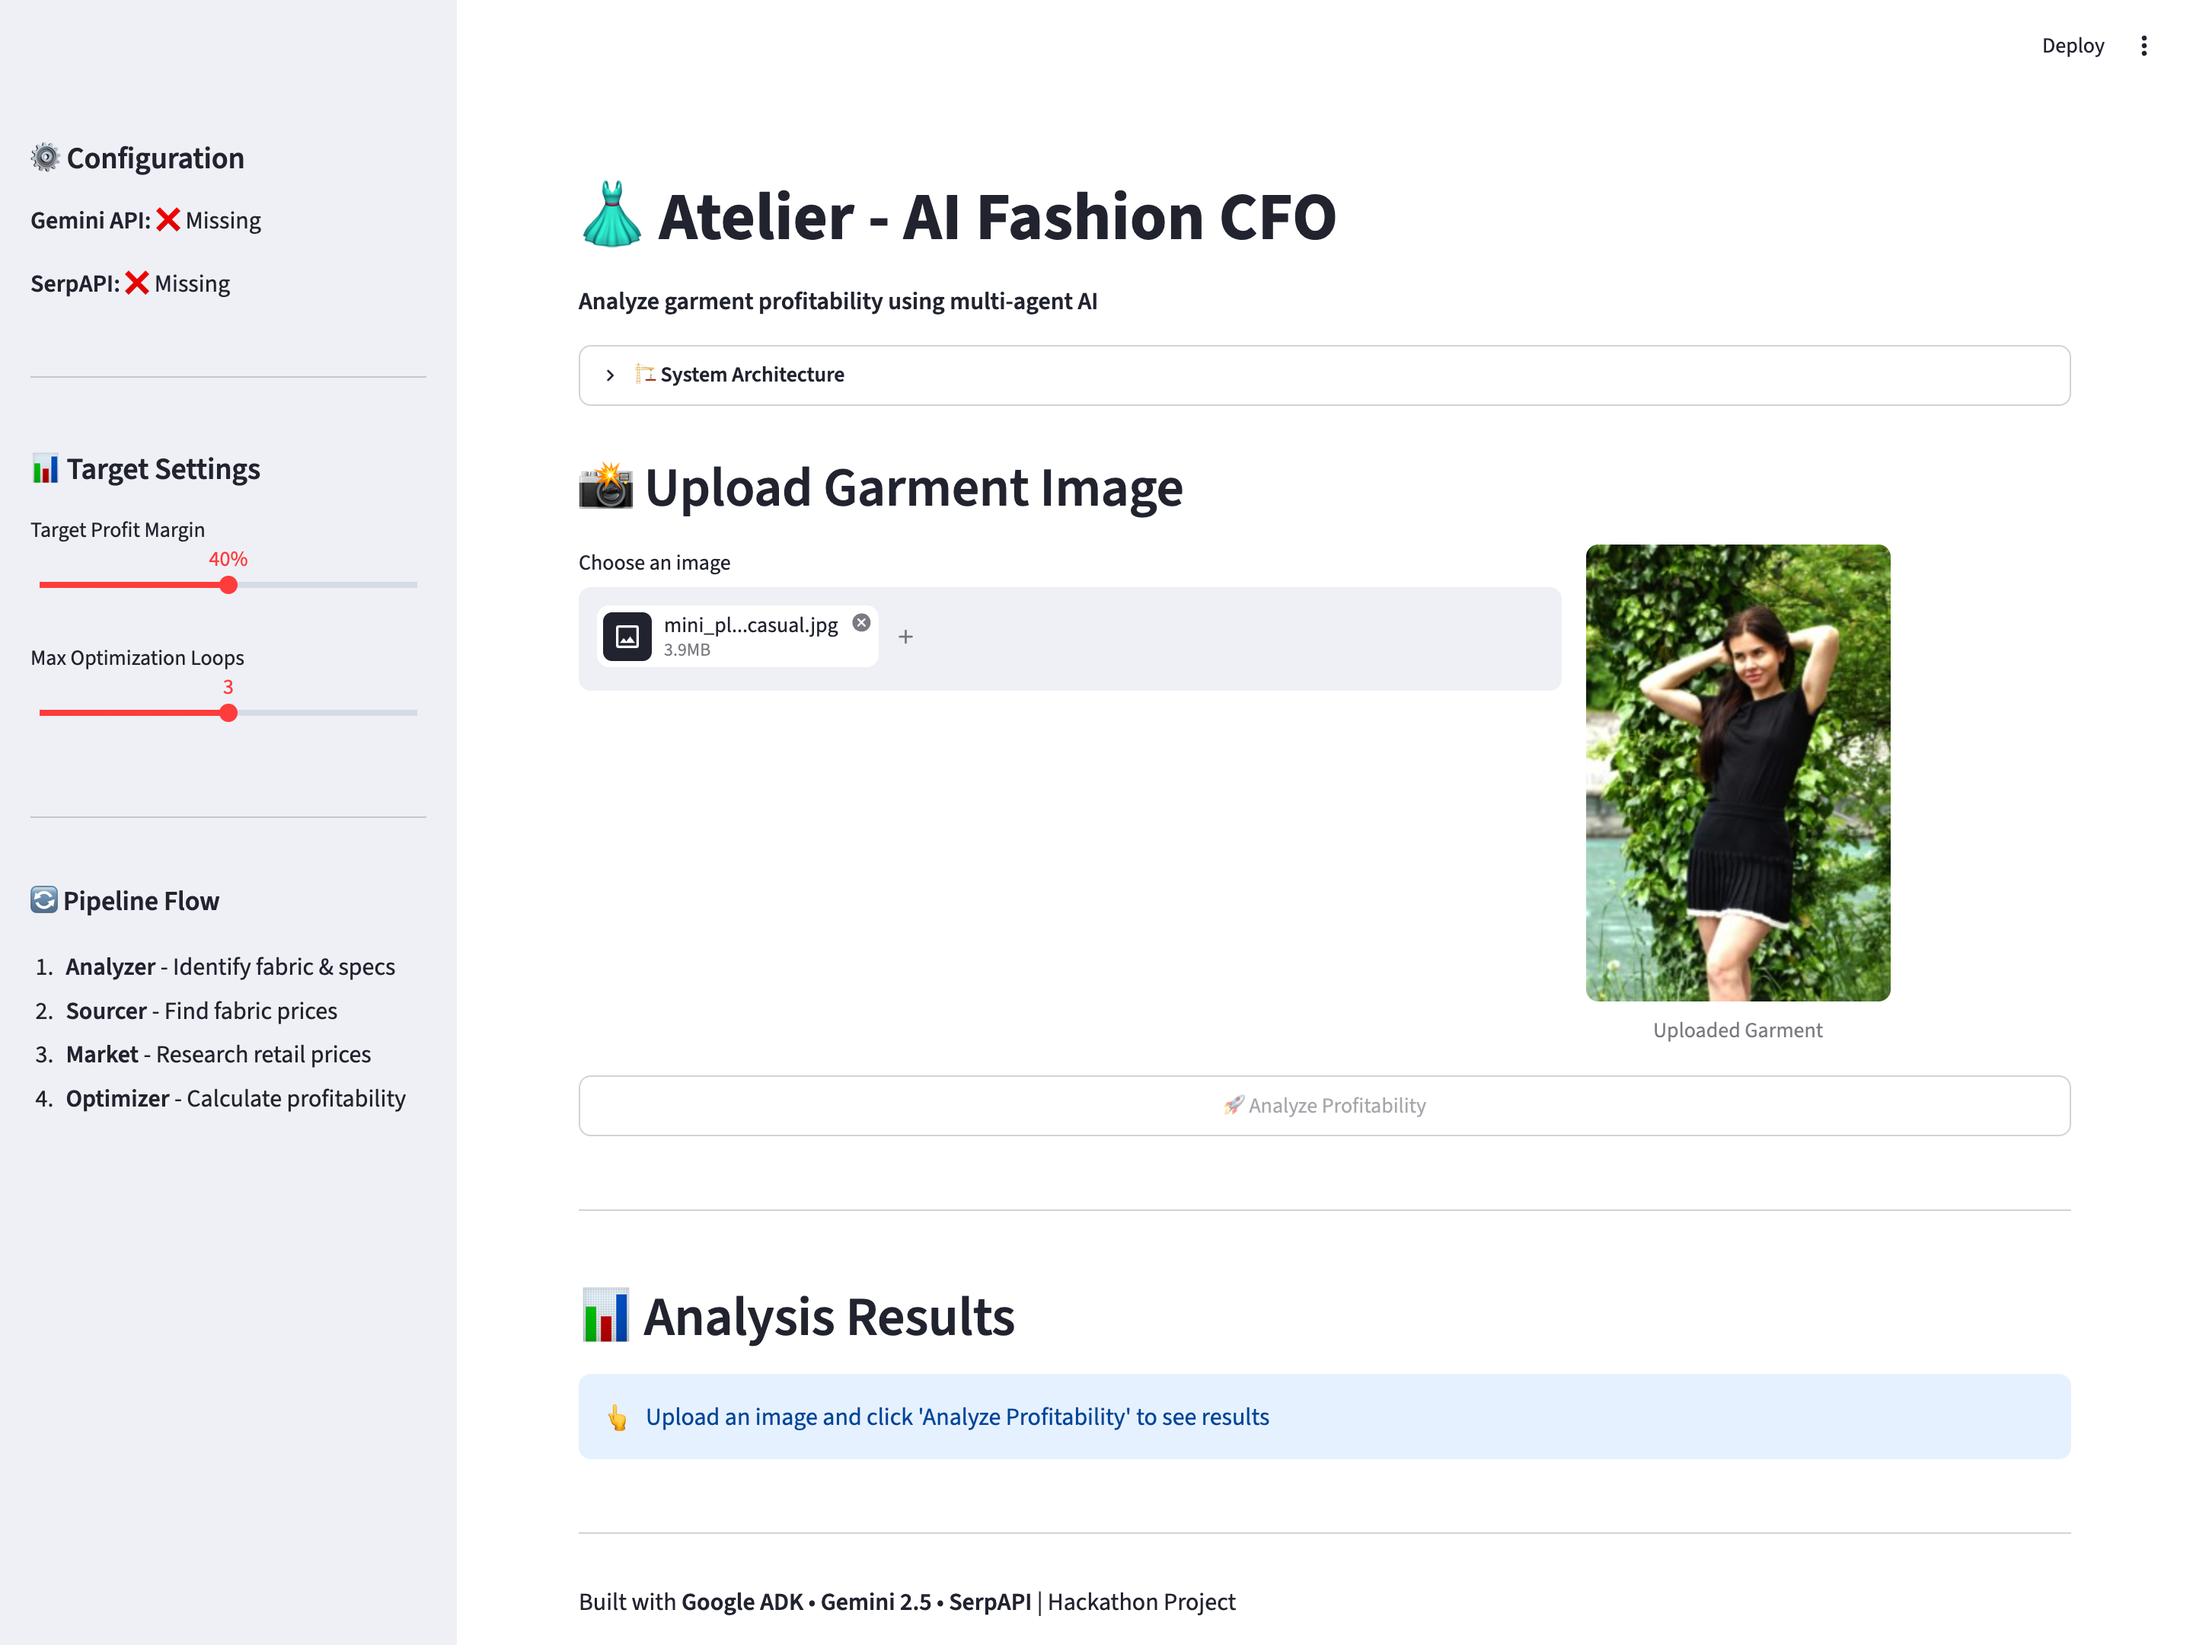
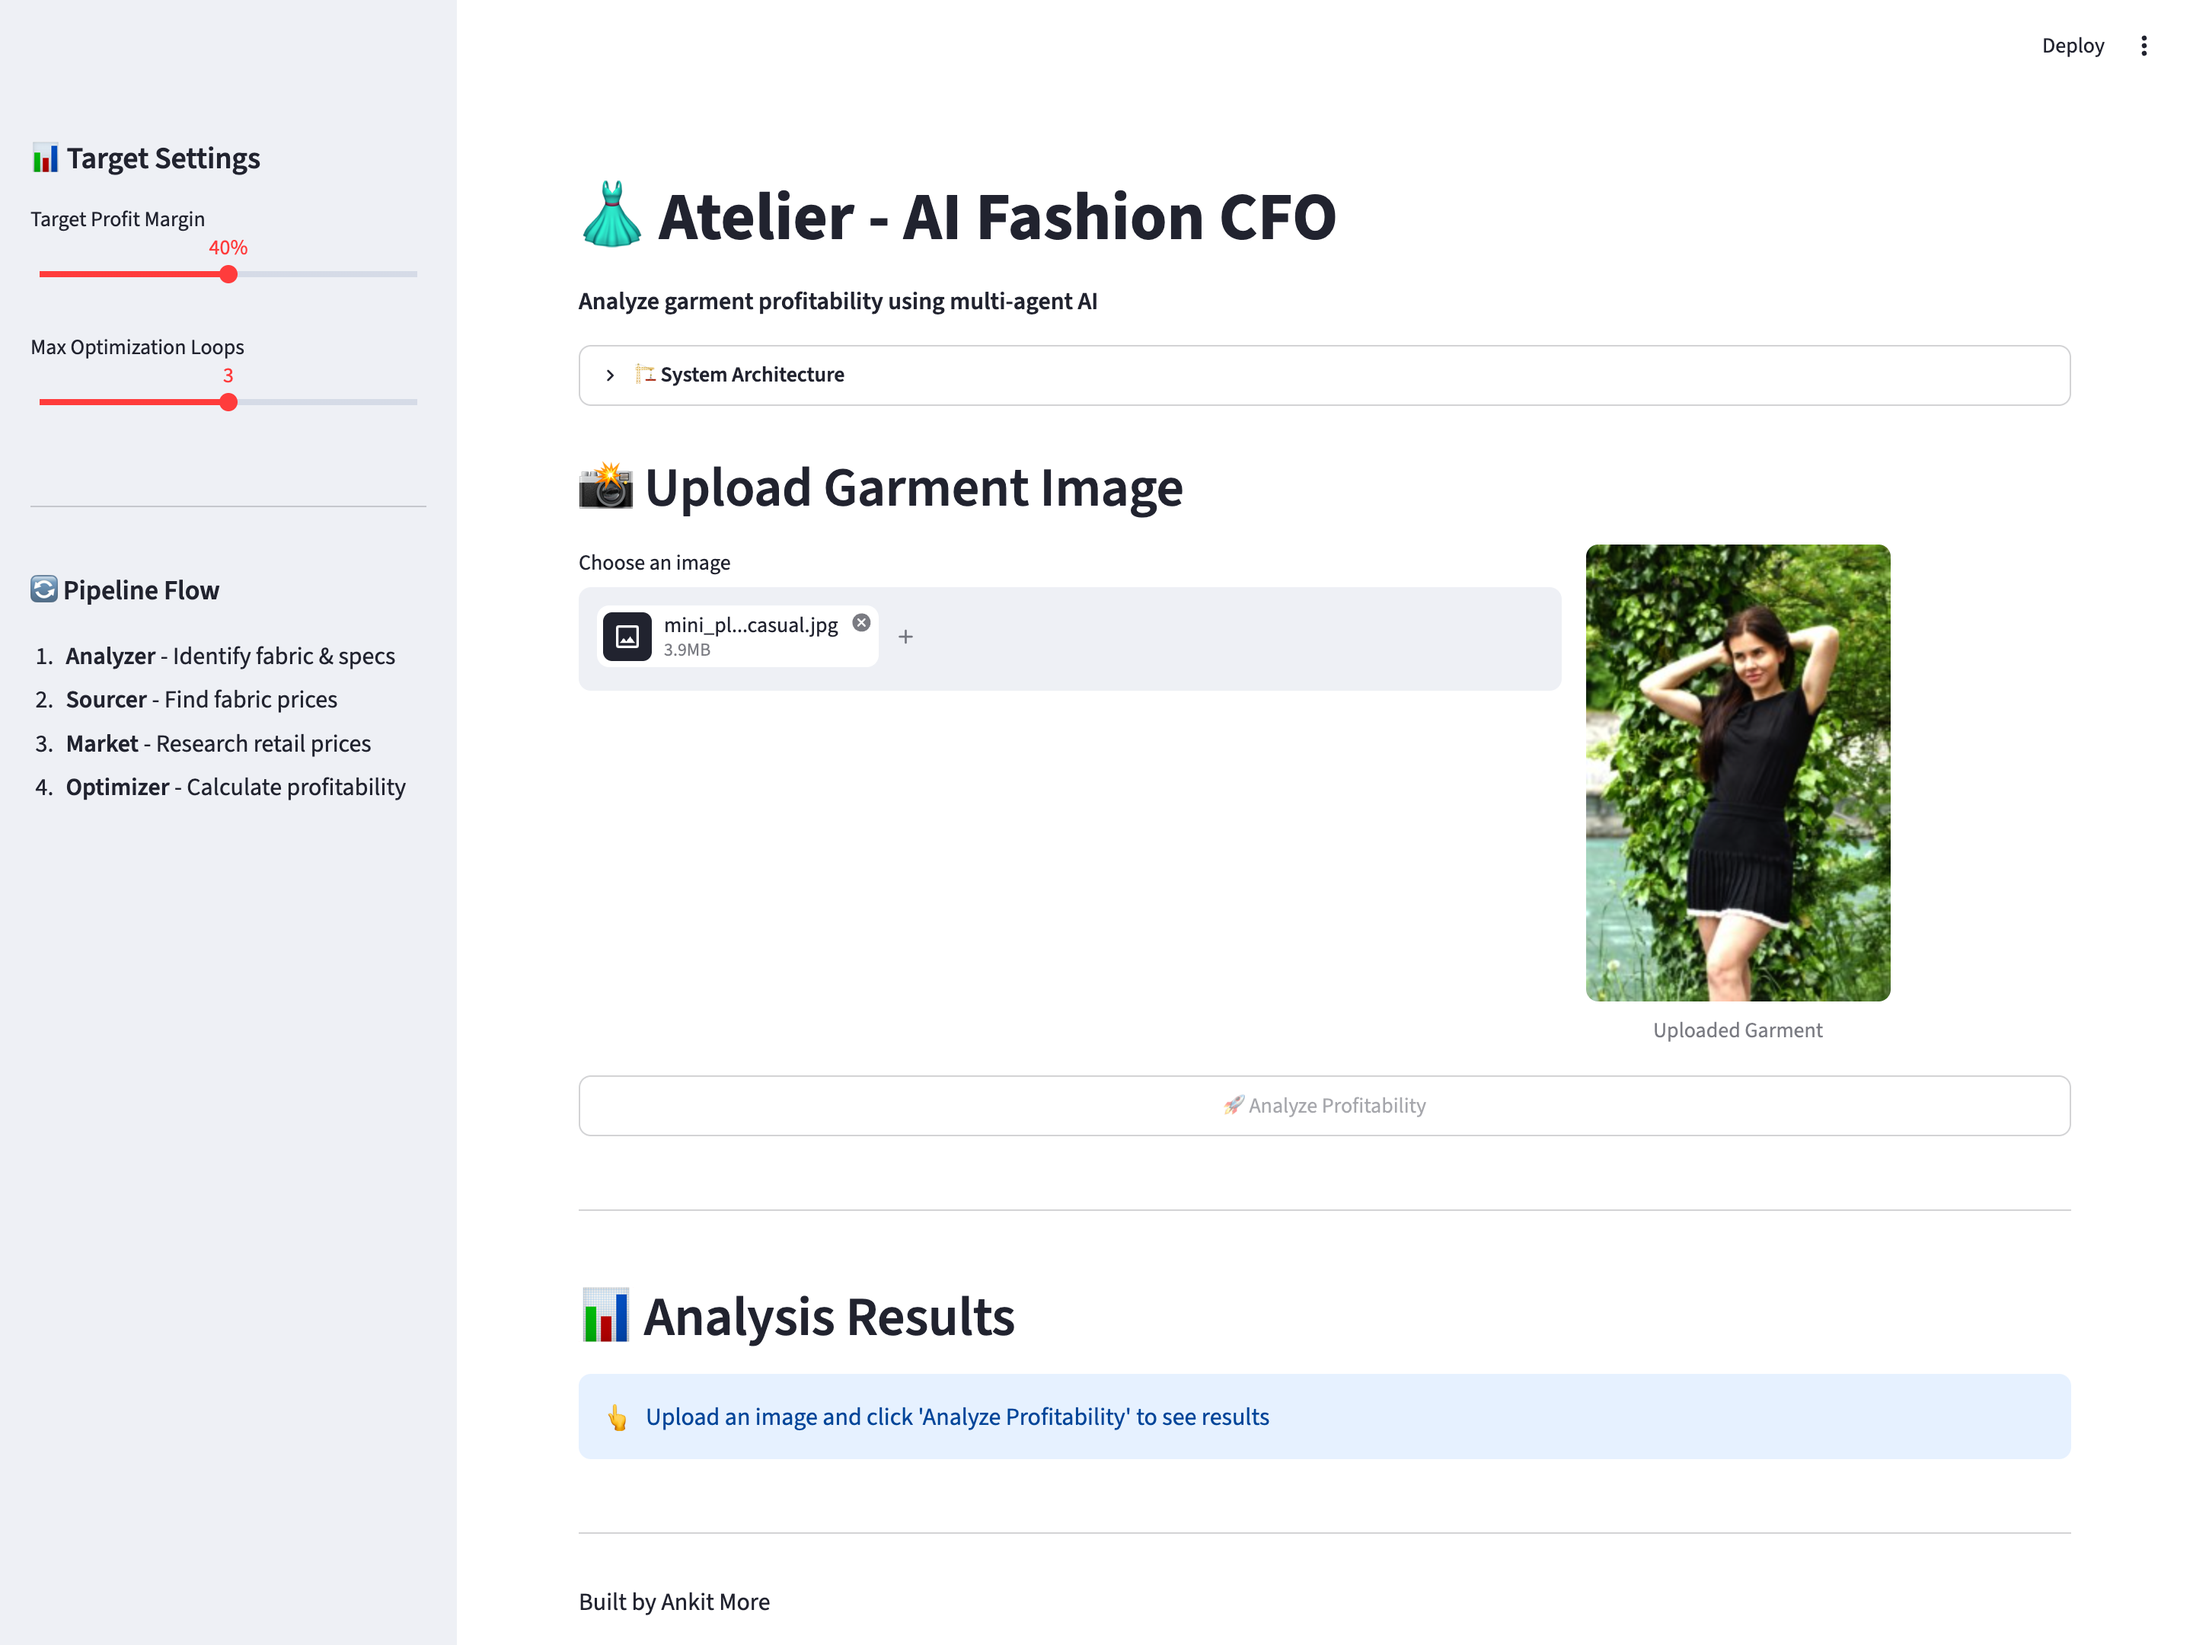
ui: simplify sidebar and show author-only footer

diff --git a/tests/test_pipeline.py b/tests/test_pipeline.py
@@ -158,6 +158,11 @@ class EntryPointTests(unittest.TestCase):
         app_path = Path(__file__).resolve().parents[1] / "app.py"
         app_test = AppTest.from_file(str(app_path), default_timeout=30).run()
         self.assertEqual(len(app_test.exception), 0)
+        markdown = [element.value for element in app_test.markdown]
+        self.assertEqual(markdown.count("Built by Ankit More"), 1)
+        self.assertFalse(any("Built with" in value or "Hackathon Project" in value for value in markdown))
+        self.assertFalse(any("Gemini API:" in value or "SerpAPI:" in value for value in markdown))
+        self.assertFalse(any("Configuration" in heading.value for heading in app_test.header))
         app_test.slider[0].set_value(55)
         app_test.slider[1].set_value(2)
         app_test.session_state["final_state"] = {"profit_analysis": {

diff --git a/app.py b/app.py
@@ -141,15 +141,6 @@ with st.expander("🏗 **System Architecture**", expanded=False):
 
 # Sidebar
 with st.sidebar:
-    st.header("⚙ Configuration")
-    
-    api_key_status = "✅ Configured" if os.getenv("GOOGLE_API_KEY") else "❌ Missing"
-    serpapi_status = "✅ Configured" if os.getenv("SERPAPI_API_KEY") else "❌ Missing"
-    
-    st.markdown(f"**Gemini API:** {api_key_status}")
-    st.markdown(f"**SerpAPI:** {serpapi_status}")
-    
-    st.divider()
     st.header("📊 Target Settings")
     target_margin = st.slider("Target Profit Margin", 20, 60, 40, 5, format="%d%%")
     max_iterations = st.slider("Max Optimization Loops", 1, 5, 3)
@@ -341,4 +332,4 @@ else:
 
 # Footer
 st.divider()
-st.markdown("Built with **Google ADK** • **Gemini 2.5** • **SerpAPI** | Hackathon Project")
+st.markdown("Built by Ankit More")
